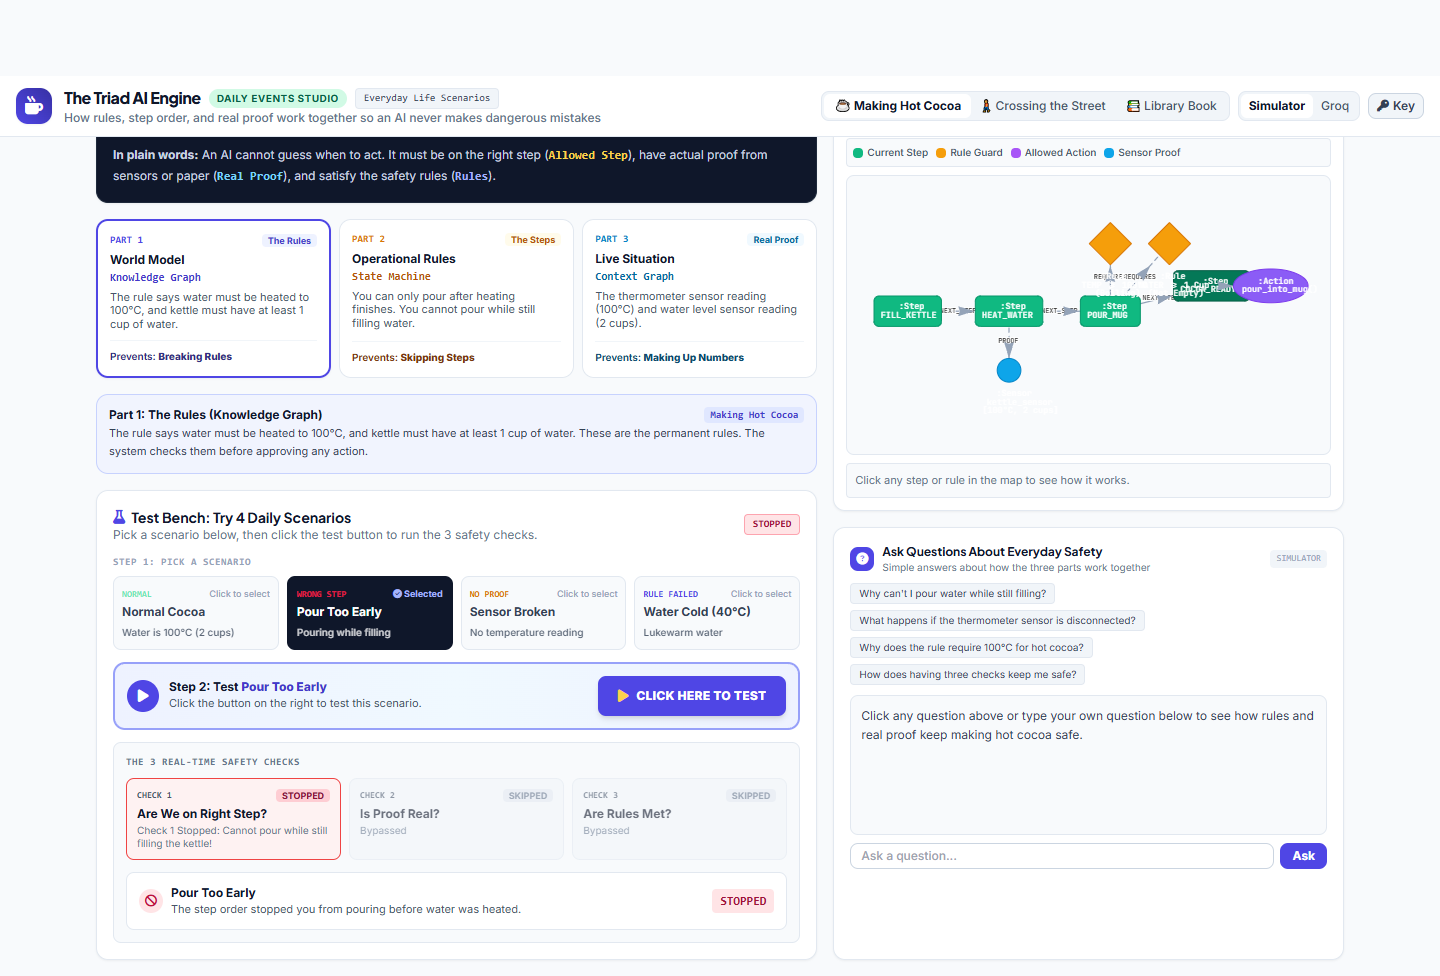
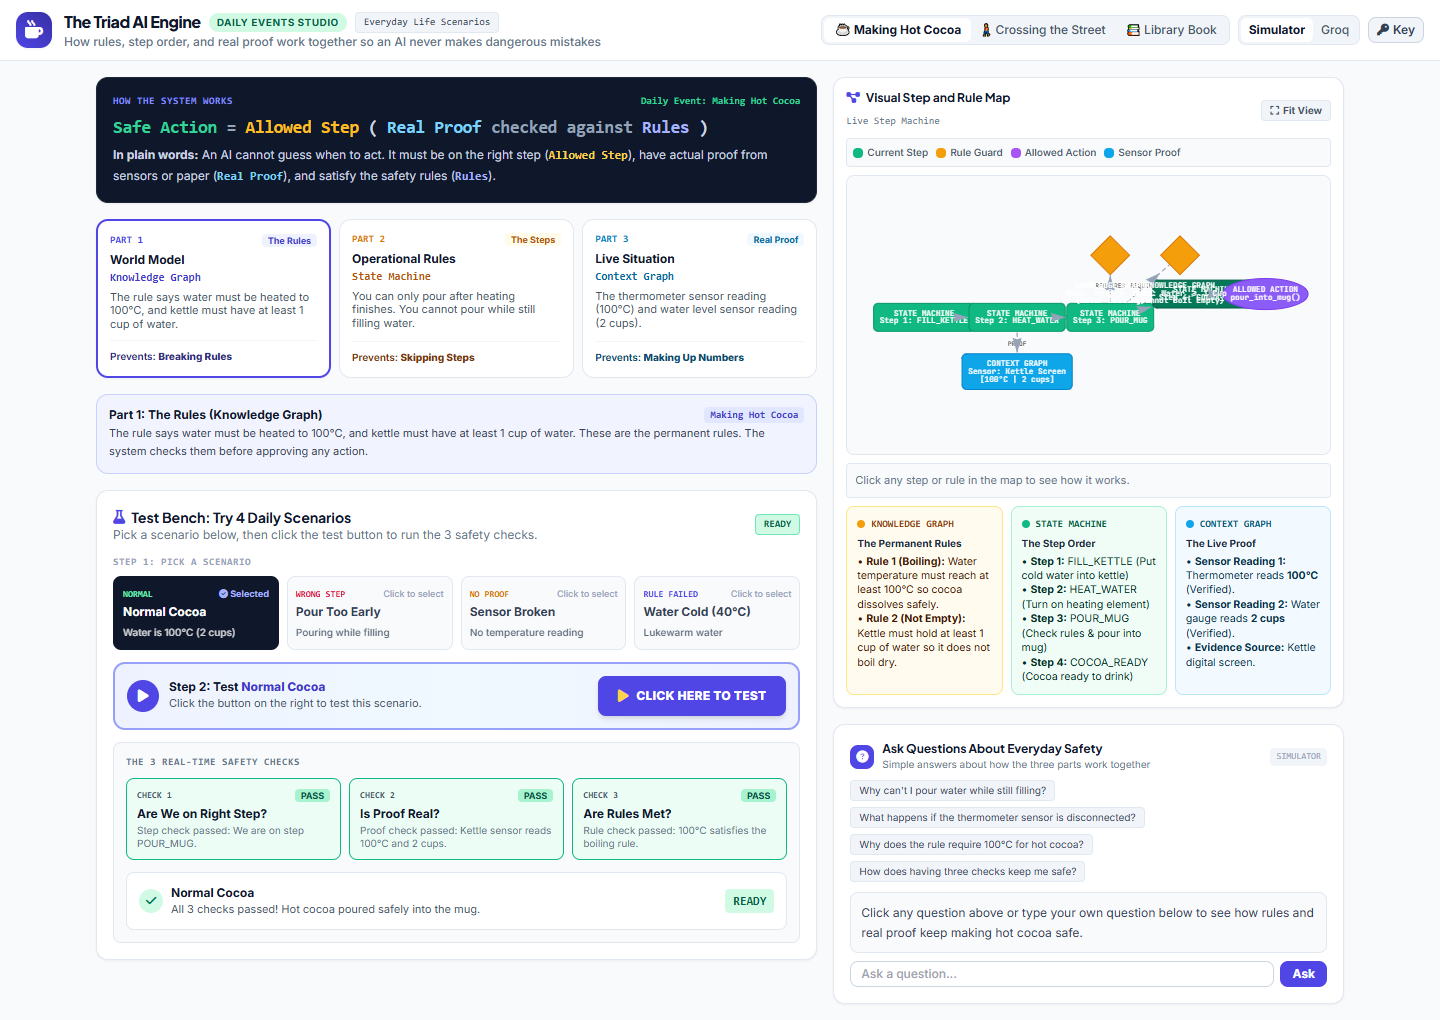
feat: Put explicit text in Knowledge Graph and Context Graph nodes and cards

diff --git a/deterministic_ai_studio.html b/deterministic_ai_studio.html
@@ -350,8 +350,56 @@
           <!-- Vis.js renders here -->
         </div>
 
+
         <div id="node-inspector" class="mt-2 p-2 bg-slate-50 rounded border border-slate-200 text-[11px] text-slate-700 flex items-center justify-between">
           <span class="text-slate-500">Click any step or rule in the map to see how it works.</span>
+        </div>
+
+        <!-- READABLE TEXT CARDS FOR KNOWLEDGE GRAPH, STATE MACHINE & CONTEXT GRAPH -->
+        <div class="grid grid-cols-1 md:grid-cols-3 gap-2 mt-2">
+          
+          <!-- Knowledge Graph Text -->
+          <div class="bg-amber-50/80 border border-amber-200 rounded-lg p-2.5 flex flex-col justify-between">
+            <div>
+              <div class="text-[10px] font-mono font-bold text-amber-800 uppercase flex items-center gap-1.5 mb-1">
+                <span class="w-2 h-2 rounded bg-amber-500 inline-block"></span>
+                Knowledge Graph
+              </div>
+              <div class="text-[10px] font-bold text-slate-800 mb-1">The Permanent Rules</div>
+              <div id="text-kg-content" class="text-[10.5px] text-amber-950 space-y-1 leading-snug">
+                <!-- Injected via JavaScript -->
+              </div>
+            </div>
+          </div>
+
+          <!-- State Machine Text -->
+          <div class="bg-emerald-50/80 border border-emerald-200 rounded-lg p-2.5 flex flex-col justify-between">
+            <div>
+              <div class="text-[10px] font-mono font-bold text-emerald-800 uppercase flex items-center gap-1.5 mb-1">
+                <span class="w-2 h-2 rounded bg-emerald-500 inline-block"></span>
+                State Machine
+              </div>
+              <div class="text-[10px] font-bold text-slate-800 mb-1">The Step Order</div>
+              <div id="text-fsm-content" class="text-[10.5px] text-emerald-950 space-y-1 leading-snug">
+                <!-- Injected via JavaScript -->
+              </div>
+            </div>
+          </div>
+
+          <!-- Context Graph Text -->
+          <div class="bg-sky-50/80 border border-sky-200 rounded-lg p-2.5 flex flex-col justify-between">
+            <div>
+              <div class="text-[10px] font-mono font-bold text-sky-800 uppercase flex items-center gap-1.5 mb-1">
+                <span class="w-2 h-2 rounded bg-sky-500 inline-block"></span>
+                Context Graph
+              </div>
+              <div class="text-[10px] font-bold text-slate-800 mb-1">The Live Proof</div>
+              <div id="text-cg-content" class="text-[10.5px] text-sky-950 space-y-1 leading-snug">
+                <!-- Injected via JavaScript -->
+              </div>
+            </div>
+          </div>
+
         </div>
       </div>
 
@@ -436,15 +484,30 @@
         pillar1_desc: "The rule says water must be heated to 100°C, and kettle must have at least 1 cup of water.",
         pillar2_desc: "You can only pour after heating finishes. You cannot pour while still filling water.",
         pillar3_desc: "The thermometer sensor reading (100°C) and water level sensor reading (2 cups).",
+        kg_text: [
+          "• <strong>Rule 1 (Boiling):</strong> Water temperature must reach at least 100°C so cocoa dissolves safely.",
+          "• <strong>Rule 2 (Not Empty):</strong> Kettle must hold at least 1 cup of water so it does not boil dry."
+        ],
+        fsm_text: [
+          "• <strong>Step 1:</strong> FILL_KETTLE (Put cold water into kettle)",
+          "• <strong>Step 2:</strong> HEAT_WATER (Turn on heating element)",
+          "• <strong>Step 3:</strong> POUR_MUG (Check rules & pour into mug)",
+          "• <strong>Step 4:</strong> COCOA_READY (Cocoa ready to drink)"
+        ],
+        cg_text: [
+          "• <strong>Sensor Reading 1:</strong> Thermometer reads <strong>100°C</strong> (Verified).",
+          "• <strong>Sensor Reading 2:</strong> Water gauge reads <strong>2 cups</strong> (Verified).",
+          "• <strong>Evidence Source:</strong> Kettle digital screen."
+        ],
         nodes: [
-          { id: 's1', label: ':Step\nFILL_KETTLE', shape: 'box', color: { background: '#10b981', border: '#059669' }, x: -160, y: 0 },
-          { id: 's2', label: ':Step\nHEAT_WATER', shape: 'box', color: { background: '#10b981', border: '#059669' }, x: -40, y: 0 },
-          { id: 's3', label: ':Step\nPOUR_MUG', shape: 'box', color: { background: '#10b981', border: '#059669' }, x: 80, y: 0 },
-          { id: 's4', label: ':Step\nCOCOA_READY', shape: 'box', color: { background: '#047857', border: '#065f46' }, x: 200, y: -30 },
-          { id: 'r1', label: ':Rule\nTEMP >= 100°C\n(Boiling)', shape: 'diamond', color: { background: '#f59e0b', border: '#d97706' }, x: 80, y: -80 },
-          { id: 'r2', label: ':Rule\nWATER >= 1 Cup\n(Not Empty)', shape: 'diamond', color: { background: '#f59e0b', border: '#d97706' }, x: 150, y: -80 },
-          { id: 'act', label: ':Action\npour_into_mug()', shape: 'ellipse', color: { background: '#8b5cf6', border: '#7c3aed' }, x: 270, y: -30 },
-          { id: 'prf', label: ':Sensor\nkettle_sensor\n[100°C, 2 cups]', shape: 'dot', size: 14, color: { background: '#0ea5e9', border: '#0284c7' }, x: -40, y: 70 }
+          { id: 's1', label: 'STATE MACHINE\nStep 1: FILL_KETTLE', shape: 'box', color: { background: '#10b981', border: '#059669' }, x: -160, y: 0 },
+          { id: 's2', label: 'STATE MACHINE\nStep 2: HEAT_WATER', shape: 'box', color: { background: '#10b981', border: '#059669' }, x: -40, y: 0 },
+          { id: 's3', label: 'STATE MACHINE\nStep 3: POUR_MUG', shape: 'box', color: { background: '#10b981', border: '#059669' }, x: 80, y: 0 },
+          { id: 's4', label: 'STATE MACHINE\nStep 4: COCOA_READY', shape: 'box', color: { background: '#047857', border: '#065f46' }, x: 200, y: -30 },
+          { id: 'r1', label: 'KNOWLEDGE GRAPH\nRule: Temp >= 100°C\n(Water Boiling)', shape: 'diamond', color: { background: '#f59e0b', border: '#d97706' }, x: 80, y: -80 },
+          { id: 'r2', label: 'KNOWLEDGE GRAPH\nRule: Water >= 1 Cup\n(Cannot Boil Empty)', shape: 'diamond', color: { background: '#f59e0b', border: '#d97706' }, x: 170, y: -80 },
+          { id: 'act', label: 'ALLOWED ACTION\npour_into_mug()', shape: 'ellipse', color: { background: '#8b5cf6', border: '#7c3aed' }, x: 280, y: -30 },
+          { id: 'prf', label: 'CONTEXT GRAPH\nSensor: Kettle Screen\n[100°C | 2 cups]', shape: 'box', color: { background: '#0ea5e9', border: '#0284c7' }, x: -40, y: 70 }
         ],
         edges: [
           { from: 's1', to: 's2', label: 'NEXT_STEP', arrows: 'to' },
@@ -517,15 +580,30 @@
         pillar1_desc: "The rule says the crosswalk signal must say WALK, and all cars must be stopped.",
         pillar2_desc: "You can only step into the street when the light check is complete. You cannot run across from the sidewalk curb.",
         pillar3_desc: "The camera sensor seeing the white walk sign and radar detecting zero moving cars.",
+        kg_text: [
+          "• <strong>Rule 1 (Walk Sign):</strong> Pedestrian light must show the white WALK signal.",
+          "• <strong>Rule 2 (Cars Stopped):</strong> Nearby vehicular traffic speed must be 0 mph."
+        ],
+        fsm_text: [
+          "• <strong>Step 1:</strong> WAIT_AT_CURB (Stop at sidewalk curb)",
+          "• <strong>Step 2:</strong> CHECK_LIGHT (Look at walk sign and cars)",
+          "• <strong>Step 3:</strong> STEP_TO_CROSS (Step into crosswalk lane)",
+          "• <strong>Step 4:</strong> SAFE_ON_SIDE (Reach opposite sidewalk safely)"
+        ],
+        cg_text: [
+          "• <strong>Camera Reading:</strong> Crosswalk camera detects <strong>WALK</strong> sign.",
+          "• <strong>Radar Reading:</strong> Street radar reads <strong>0 mph</strong> for cars.",
+          "• <strong>Evidence Source:</strong> Crosswalk safety camera."
+        ],
         nodes: [
-          { id: 's1', label: ':Step\nWAIT_AT_CURB', shape: 'box', color: { background: '#10b981', border: '#059669' }, x: -160, y: 0 },
-          { id: 's2', label: ':Step\nCHECK_LIGHT', shape: 'box', color: { background: '#10b981', border: '#059669' }, x: -40, y: 0 },
-          { id: 's3', label: ':Step\nSTEP_TO_CROSS', shape: 'box', color: { background: '#10b981', border: '#059669' }, x: 80, y: 0 },
-          { id: 's4', label: ':Step\nSAFE_ON_SIDE', shape: 'box', color: { background: '#047857', border: '#065f46' }, x: 200, y: -30 },
-          { id: 'r1', label: ':Rule\nLIGHT == WALK\n(White Sign)', shape: 'diamond', color: { background: '#f59e0b', border: '#d97706' }, x: 80, y: -80 },
-          { id: 'r2', label: ':Rule\nCARS_STOPPED\n(0 mph)', shape: 'diamond', color: { background: '#f59e0b', border: '#d97706' }, x: 150, y: -80 },
-          { id: 'act', label: ':Action\nwalk_across()', shape: 'ellipse', color: { background: '#8b5cf6', border: '#7c3aed' }, x: 270, y: -30 },
-          { id: 'prf', label: ':Sensor\ncrosswalk_cam\n[WALK, 0 cars]', shape: 'dot', size: 14, color: { background: '#0ea5e9', border: '#0284c7' }, x: -40, y: 70 }
+          { id: 's1', label: 'STATE MACHINE\nStep 1: WAIT_AT_CURB', shape: 'box', color: { background: '#10b981', border: '#059669' }, x: -160, y: 0 },
+          { id: 's2', label: 'STATE MACHINE\nStep 2: CHECK_LIGHT', shape: 'box', color: { background: '#10b981', border: '#059669' }, x: -40, y: 0 },
+          { id: 's3', label: 'STATE MACHINE\nStep 3: STEP_TO_CROSS', shape: 'box', color: { background: '#10b981', border: '#059669' }, x: 80, y: 0 },
+          { id: 's4', label: 'STATE MACHINE\nStep 4: SAFE_ON_SIDE', shape: 'box', color: { background: '#047857', border: '#065f46' }, x: 200, y: -30 },
+          { id: 'r1', label: 'KNOWLEDGE GRAPH\nRule: Light == WALK\n(White Walk Sign)', shape: 'diamond', color: { background: '#f59e0b', border: '#d97706' }, x: 80, y: -80 },
+          { id: 'r2', label: 'KNOWLEDGE GRAPH\nRule: Cars Stopped\n(Speed == 0 mph)', shape: 'diamond', color: { background: '#f59e0b', border: '#d97706' }, x: 170, y: -80 },
+          { id: 'act', label: 'ALLOWED ACTION\nwalk_across()', shape: 'ellipse', color: { background: '#8b5cf6', border: '#7c3aed' }, x: 280, y: -30 },
+          { id: 'prf', label: 'CONTEXT GRAPH\nSensor: Crosswalk Cam\n[WALK | 0 mph]', shape: 'box', color: { background: '#0ea5e9', border: '#0284c7' }, x: -40, y: 70 }
         ],
         edges: [
           { from: 's1', to: 's2', label: 'NEXT_STEP', arrows: 'to' },
@@ -598,15 +676,30 @@
         pillar1_desc: "The rule says your library card must be active and you must have zero overdue books.",
         pillar2_desc: "You can only leave the library after the checkout scan is complete. You cannot leave straight from the bookshelves.",
         pillar3_desc: "The barcode scanner verifying the book tag and your library card number in the database.",
+        kg_text: [
+          "• <strong>Rule 1 (Active Card):</strong> Library card account must have ACTIVE status.",
+          "• <strong>Rule 2 (No Fines):</strong> Account must have 0 overdue books or unpaid fines."
+        ],
+        fsm_text: [
+          "• <strong>Step 1:</strong> FIND_BOOK (Pick book from bookshelf)",
+          "• <strong>Step 2:</strong> GO_TO_DESK (Bring book to checkout counter)",
+          "• <strong>Step 3:</strong> SCAN_CARD (Scan card barcode and book RFID)",
+          "• <strong>Step 4:</strong> TAKE_HOME (Exit through library door)"
+        ],
+        cg_text: [
+          "• <strong>Card Scan:</strong> Library Card <strong>#492</strong> scanned at counter.",
+          "• <strong>Book Tag:</strong> Book RFID Tag <strong>#88</strong> scanned.",
+          "• <strong>Evidence Source:</strong> Library desk barcode reader."
+        ],
         nodes: [
-          { id: 's1', label: ':Step\nFIND_BOOK', shape: 'box', color: { background: '#10b981', border: '#059669' }, x: -160, y: 0 },
-          { id: 's2', label: ':Step\nGO_TO_DESK', shape: 'box', color: { background: '#10b981', border: '#059669' }, x: -40, y: 0 },
-          { id: 's3', label: ':Step\nSCAN_CARD', shape: 'box', color: { background: '#10b981', border: '#059669' }, x: 80, y: 0 },
-          { id: 's4', label: ':Step\nTAKE_HOME', shape: 'box', color: { background: '#047857', border: '#065f46' }, x: 200, y: -30 },
-          { id: 'r1', label: ':Rule\nCARD_ACTIVE\n(Valid)', shape: 'diamond', color: { background: '#f59e0b', border: '#d97706' }, x: 80, y: -80 },
-          { id: 'r2', label: ':Rule\nOVERDUE == 0\n(No Fines)', shape: 'diamond', color: { background: '#f59e0b', border: '#d97706' }, x: 150, y: -80 },
-          { id: 'act', label: ':Action\nleave_with_book()', shape: 'ellipse', color: { background: '#8b5cf6', border: '#7c3aed' }, x: 270, y: -30 },
-          { id: 'prf', label: ':Scanner\nbarcode_scan\n[Card #492, Book #88]', shape: 'dot', size: 14, color: { background: '#0ea5e9', border: '#0284c7' }, x: -40, y: 70 }
+          { id: 's1', label: 'STATE MACHINE\nStep 1: FIND_BOOK', shape: 'box', color: { background: '#10b981', border: '#059669' }, x: -160, y: 0 },
+          { id: 's2', label: 'STATE MACHINE\nStep 2: GO_TO_DESK', shape: 'box', color: { background: '#10b981', border: '#059669' }, x: -40, y: 0 },
+          { id: 's3', label: 'STATE MACHINE\nStep 3: SCAN_CARD', shape: 'box', color: { background: '#10b981', border: '#059669' }, x: 80, y: 0 },
+          { id: 's4', label: 'STATE MACHINE\nStep 4: TAKE_HOME', shape: 'box', color: { background: '#047857', border: '#065f46' }, x: 200, y: -30 },
+          { id: 'r1', label: 'KNOWLEDGE GRAPH\nRule: Card Active\n(Account in Good Standing)', shape: 'diamond', color: { background: '#f59e0b', border: '#d97706' }, x: 80, y: -80 },
+          { id: 'r2', label: 'KNOWLEDGE GRAPH\nRule: Overdue == 0\n(No Overdue Books)', shape: 'diamond', color: { background: '#f59e0b', border: '#d97706' }, x: 170, y: -80 },
+          { id: 'act', label: 'ALLOWED ACTION\nleave_with_book()', shape: 'ellipse', color: { background: '#8b5cf6', border: '#7c3aed' }, x: 280, y: -30 },
+          { id: 'prf', label: 'CONTEXT GRAPH\nScanner: Desk Reader\n[Card #492 | Book #88]', shape: 'box', color: { background: '#0ea5e9', border: '#0284c7' }, x: -40, y: 70 }
         ],
         edges: [
           { from: 's1', to: 's2', label: 'NEXT_STEP', arrows: 'to' },
@@ -702,6 +795,11 @@
       document.getElementById('desc-pillar-1').textContent = t.pillar1_desc;
       document.getElementById('desc-pillar-2').textContent = t.pillar2_desc;
       document.getElementById('desc-pillar-3').textContent = t.pillar3_desc;
+
+      // Populate readable text cards for Knowledge Graph, State Machine, and Context Graph
+      document.getElementById('text-kg-content').innerHTML = t.kg_text.join('<br>');
+      document.getElementById('text-fsm-content').innerHTML = t.fsm_text.join('<br>');
+      document.getElementById('text-cg-content').innerHTML = t.cg_text.join('<br>');
 
       // Update Pillar Details
       selectPillar(activePillar);
